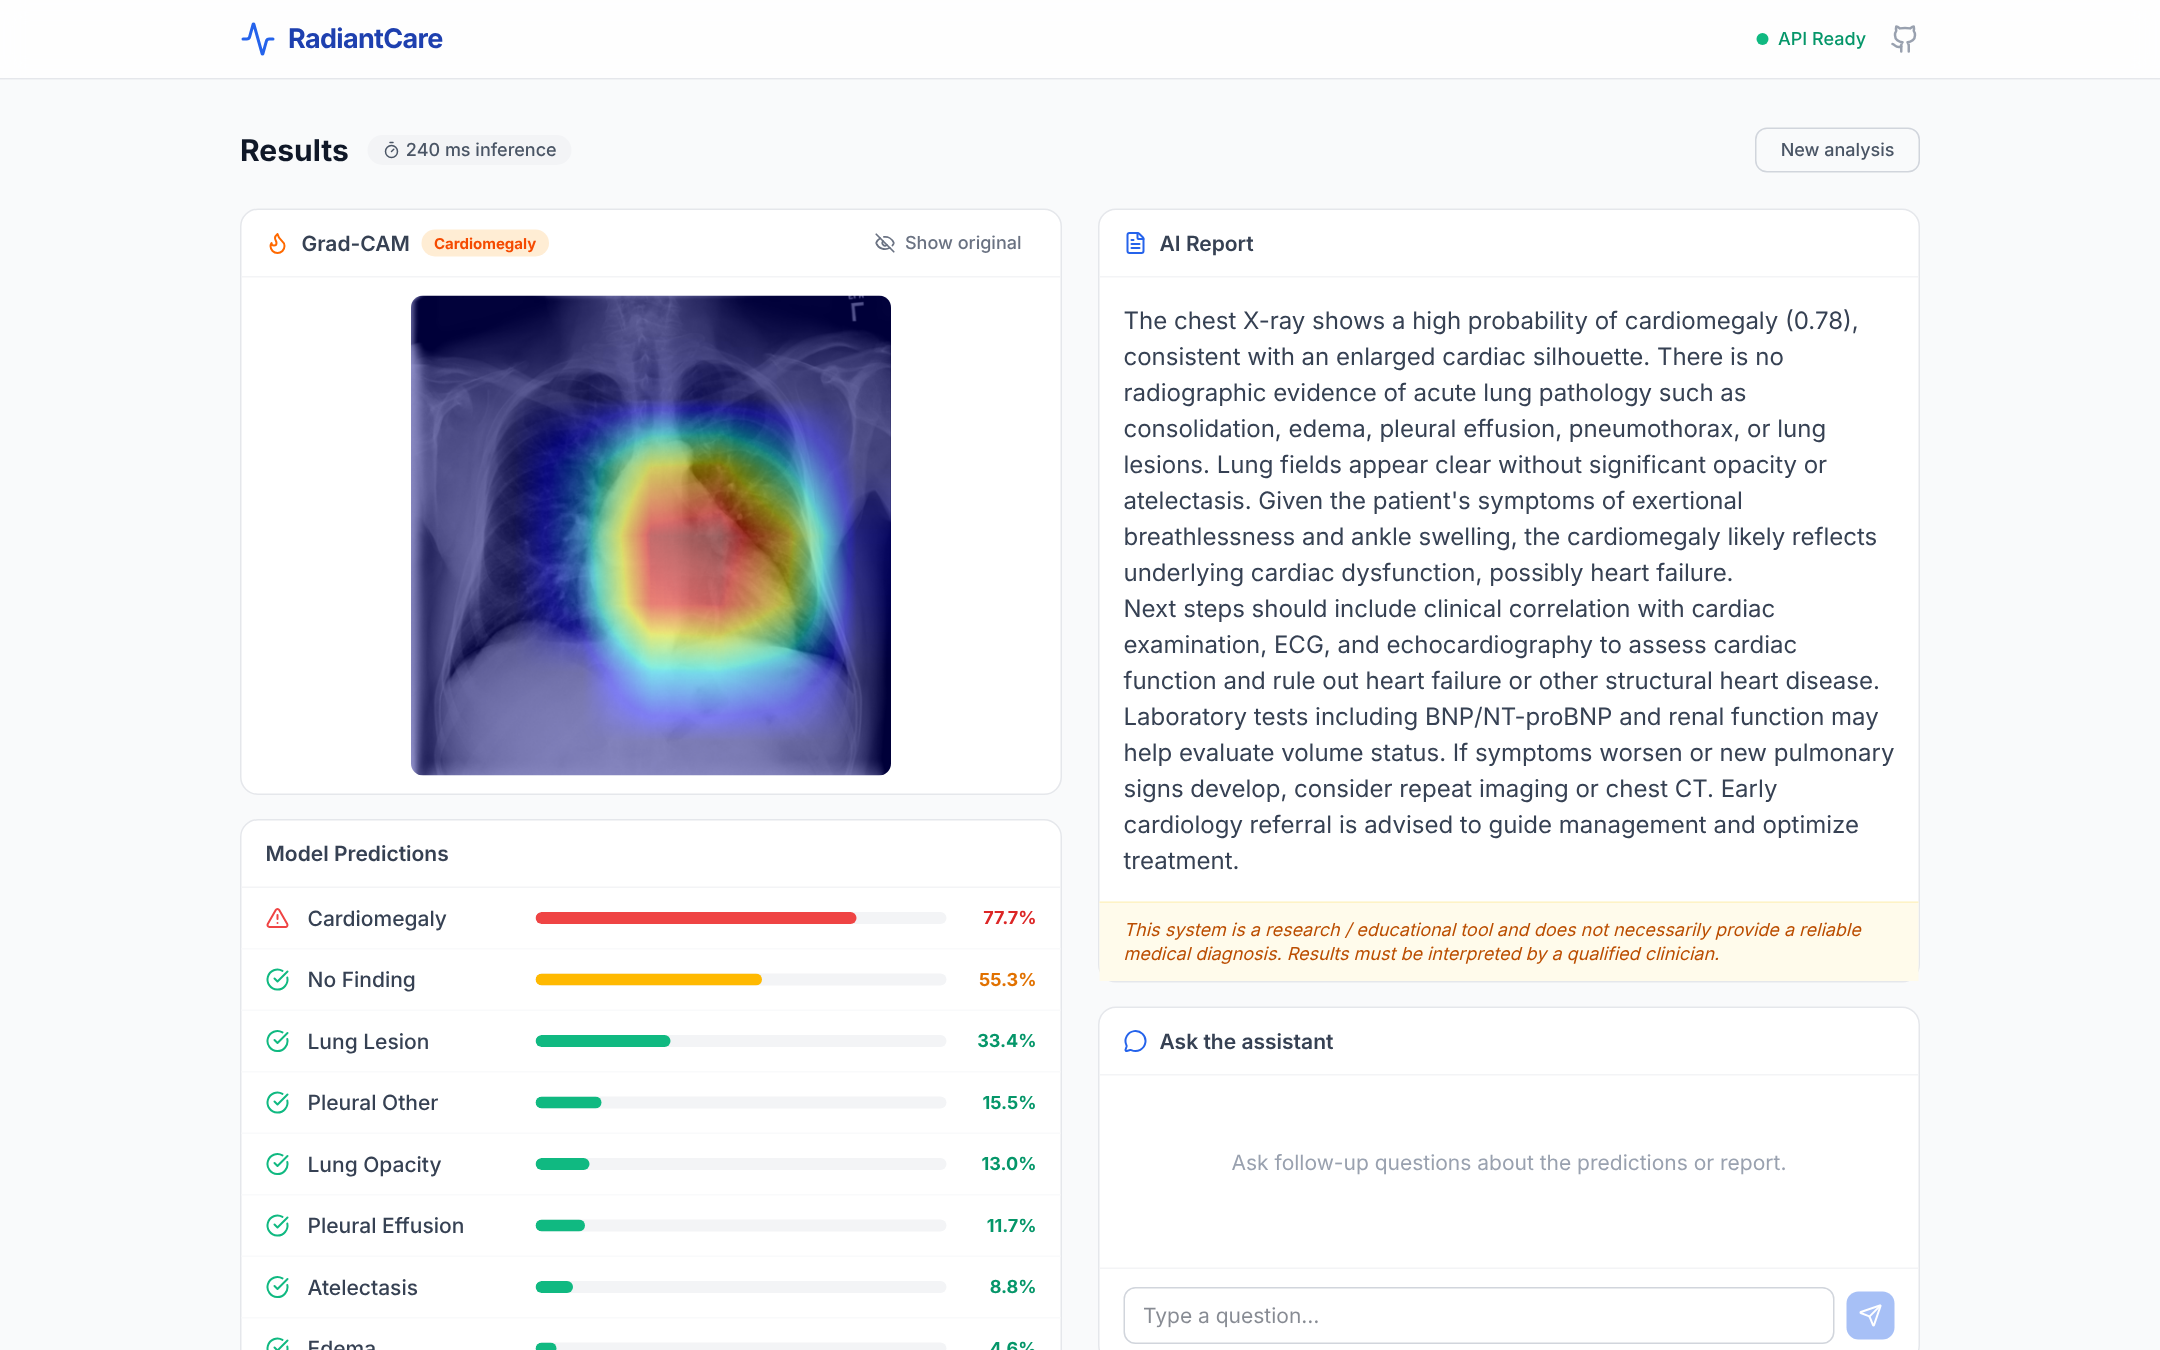
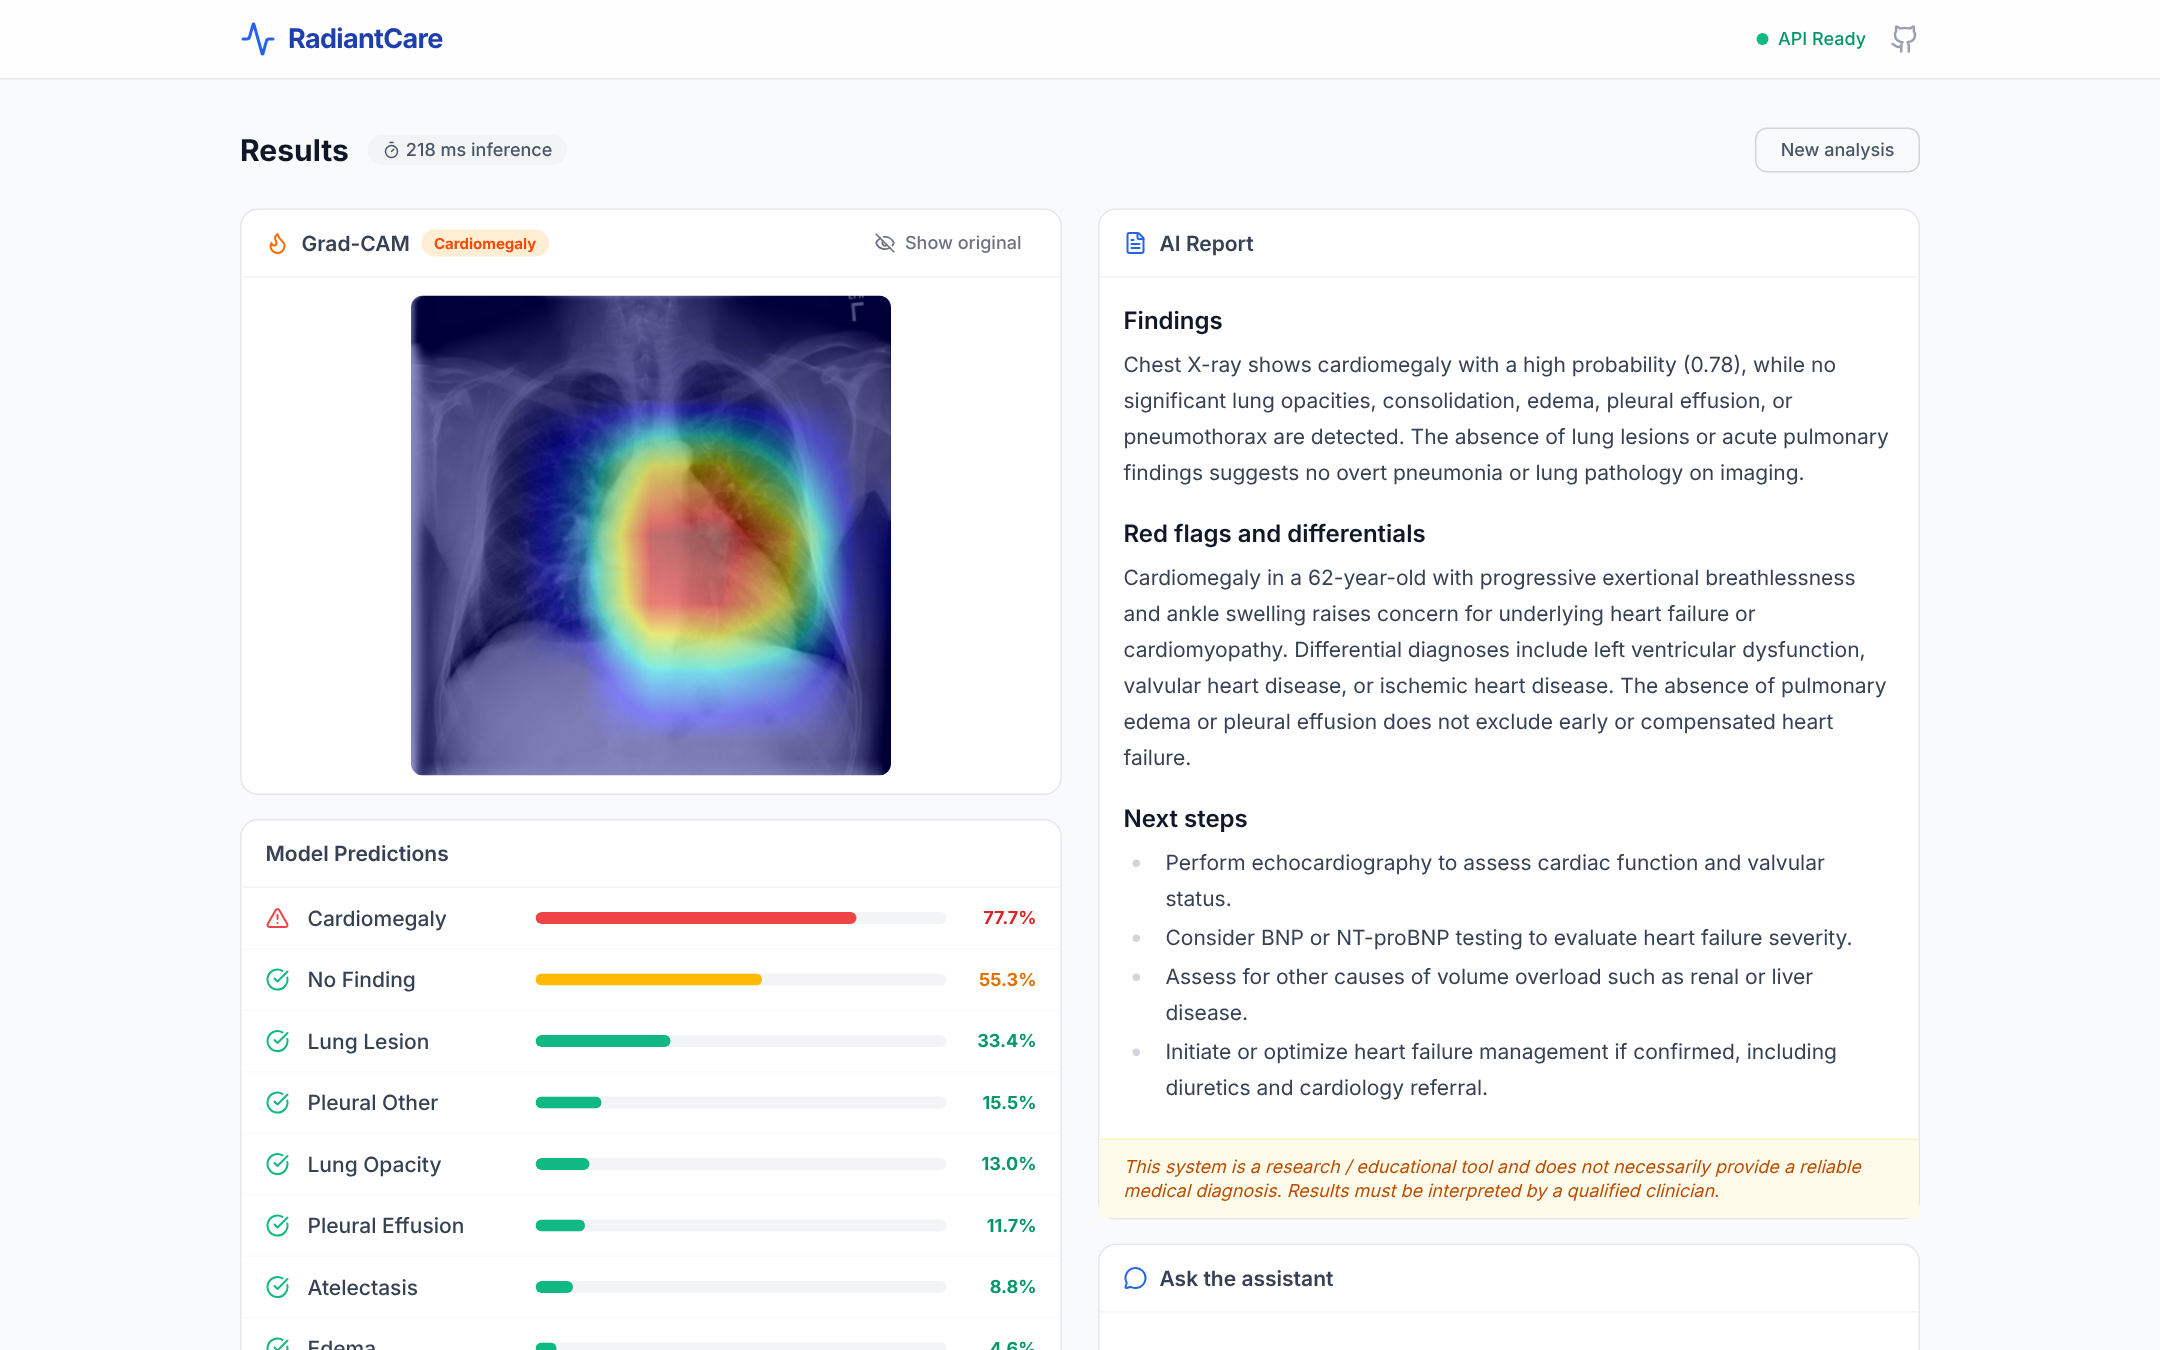
Format the AI report and chat answers properly
The report and chat answers were returned as Markdown, but the
Tailwind typography plugin was missing, so the prose classes did
nothing and headings and lists showed as plain text.

- Add @tailwindcss/typography and load it in index.css
- Ask for a report in three short ### sections (findings, red flags
  and differentials, next steps)
- Ask the chat to answer first in one bold sentence, then add detail
- Tidy heading sizes and spacing in the report and chat bubbles
- Retake the screenshots and update their captions

Claude-Session: https://claude.ai/code/session_01DbUQQDwXdoP77nQRJUWZuh

diff --git a/frontend/src/components/ChatPanel.tsx b/frontend/src/components/ChatPanel.tsx
@@ -86,7 +86,7 @@ export default function ChatPanel({
               }`}
             >
               {m.role === "assistant" ? (
-                <div className="prose prose-sm max-w-none prose-headings:mt-3 prose-headings:mb-1.5 prose-headings:font-semibold prose-p:my-2 first:prose-p:mt-0 last:prose-p:mb-0 prose-ul:my-2 prose-li:my-0.5 prose-ul:list-disc prose-ol:list-decimal">
+                <div className="prose prose-sm max-w-none prose-headings:mt-3 prose-headings:mb-1.5 prose-headings:font-semibold prose-h3:text-sm [&>:first-child]:mt-0 [&>:last-child]:mb-0 prose-p:my-2 first:prose-p:mt-0 last:prose-p:mb-0 prose-ul:my-2 prose-li:my-0.5 prose-ul:list-disc prose-ol:list-decimal">
                   <ReactMarkdown>{m.content}</ReactMarkdown>
                 </div>
               ) : (

diff --git a/frontend/src/components/ReportDisplay.tsx b/frontend/src/components/ReportDisplay.tsx
@@ -14,7 +14,7 @@ export default function ReportDisplay({ report, disclaimer }: Props) {
         <h3 className="text-sm font-semibold text-gray-700">AI Report</h3>
       </div>
 
-      <div className="prose prose-sm max-w-none px-4 py-4 text-gray-700">
+      <div className="prose prose-sm max-w-none px-4 py-4 text-gray-700 prose-headings:mt-4 prose-headings:mb-1.5 prose-headings:font-semibold prose-headings:text-gray-900 prose-h3:text-base [&>:first-child]:mt-0 prose-p:my-1.5 prose-ul:my-1.5 prose-li:my-0.5">
         <ReactMarkdown>{report}</ReactMarkdown>
       </div>
 

diff --git a/frontend/src/index.css b/frontend/src/index.css
@@ -1,4 +1,5 @@
 @import "tailwindcss";
+@plugin "@tailwindcss/typography";
 
 @theme {
   --color-primary-50: #eff6ff;

diff --git a/api/main.py b/api/main.py
@@ -527,7 +527,11 @@ def _generate_report_text(
         "- Summarize the main findings clearly.\n"
         "- Highlight potential red flags and differentials.\n"
         "- Suggest concrete next steps (further imaging, workup, treatment options) "
-        "as appropriate. Be concise (5-8 sentences) and use clear clinical language."
+        "as appropriate.\n"
+        "Format the report in Markdown with three short sections, each starting with a "
+        "### heading: Findings, Red flags and differentials, Next steps. Use one to three "
+        "sentences or short - bullet points per section, about 120 words in total, in "
+        "clear clinical language."
     )
 
     # User message: the actual data (predictions, context, RAG excerpts)
@@ -721,8 +725,11 @@ def chat_with_assistant(payload: ChatRequest) -> ChatResponse:
         "outputs. They use you as a partner. Provide clear differential diagnoses, "
         "next steps, and treatment or workup recommendations as appropriate. "
         "Use direct clinical language; the clinician will make the final decision. "
-        "Format your reply in Markdown: use ## for section headings, - for bullet "
-        "lists, and separate paragraphs with a blank line so the answer is easy to read."
+        "Answer the question first, in one or two sentences with the key point in "
+        "**bold**, then add detail only if it helps. Format your reply in Markdown: "
+        "use ### for short section headings, - for bullet lists, and separate "
+        "paragraphs with a blank line. Keep it under about 150 words unless the "
+        "clinician asks for more."
     )
     messages: list[dict[str, str]] = [{"role": "system", "content": system_prompt}]
 

diff --git a/README.md b/README.md
@@ -20,7 +20,7 @@ This project is **open-source** and the backend code (`main.py`, `rag.py`, `grad
 
 [![RadiantCare demo: upload a chest X-ray, read the heatmap, scores and report, ask a follow-up question](docs/demo/RadiantCare-demo-poster.jpg)](docs/demo/RadiantCare-demo.mp4)
 
-*A one-minute silent walkthrough recorded from the running app: the trained model on CPU, Grad-CAM, and real LLM calls for the report and the chat. Upload a chest X-ray with some clinical context, read the heatmap, the 14 scores and the report, then ask how urgent follow-up is. The wait while the analysis runs (about 6 seconds) is cut. Click the image to open the video ([MP4, 6 MB](docs/demo/RadiantCare-demo.mp4)).*
+*A one-minute silent walkthrough recorded from the running app: the trained model on CPU, Grad-CAM, and real LLM calls for the report and the chat. Upload a chest X-ray with some clinical context, read the heatmap, the 14 scores and the report, then ask how urgent follow-up is. The few-second wait while the analysis runs is cut. Click the image to open the video ([MP4, 6 MB](docs/demo/RadiantCare-demo.mp4)).*
 
 ---
 
@@ -34,7 +34,7 @@ The user uploads a chest X-ray image, displayed with its filename and size. They
 
 **2. Full analysis result**
 
-After selecting "Full report," the result page displays the X-ray overlaid with a Grad-CAM heatmap highlighting the region most relevant to the top prediction (here cardiomegaly). On the right, an AI-generated report summarizes findings with probabilities, takes the clinical context into account, suggests next steps, and includes a medical disclaimer. Below the heatmap, all model predictions are listed with color-coded confidence bars. A chat panel is available for follow-up questions. The model's inference time is shown in the header (240 ms here, on CPU).
+After selecting "Full report," the result page displays the X-ray overlaid with a Grad-CAM heatmap highlighting the region most relevant to the top prediction (here cardiomegaly). On the right, an AI-generated report, in three short sections (findings, red flags and differentials, next steps), summarizes findings with probabilities, takes the clinical context into account, suggests next steps, and includes a medical disclaimer. Below the heatmap, all model predictions are listed with color-coded confidence bars. A chat panel is available for follow-up questions. The model's inference time is shown in the header (218 ms here, on CPU).
 
 [![Full analysis result](./docs/images/2.png)](https://raw.githubusercontent.com/SulaimanFY/RadiantCare/main/docs/images/2.png)
 
@@ -46,13 +46,13 @@ A closer look at the complete list of predictions returned by the model. Each co
 
 **4. Interactive Chat Assistant**
 
-Interactive chat assistant that answers follow-up questions about the case, providing structured clinical insights based on model predictions, the clinical context and retrieved medical knowledge. Here it is asked how urgent follow-up is and which test should come first.
+Interactive chat assistant that answers follow-up questions about the case, providing structured clinical insights based on model predictions, the clinical context and retrieved medical knowledge. Here it is asked how urgent follow-up is and which test should come first: it answers in one bold sentence first, then gives its reasoning as a short list.
 
 [![Chat and urgency assessment](./docs/images/4.png)](https://raw.githubusercontent.com/SulaimanFY/RadiantCare/main/docs/images/4.png)
 
 **5. Predictions-only mode result**
 
-When the user selects "Predictions only," no LLM call is made, so the analysis is much faster: under a second end to end in this run, against about 5 to 6 seconds for the full report. The model's own inference time is about the same in both modes (216 ms here). The result page shows the Grad-CAM heatmap and the list of predictions without generating a written report, making it well suited for quick screening when a detailed narrative is not needed.
+When the user selects "Predictions only," no LLM call is made, so the analysis is much faster: under a second end to end in this run, against about 4 to 6 seconds for the full report. The model's own inference time is the same in both modes (218 ms here). The result page shows the Grad-CAM heatmap and the list of predictions without generating a written report, making it well suited for quick screening when a detailed narrative is not needed.
 
 [![Predictions-only mode](./docs/images/5.png)](https://raw.githubusercontent.com/SulaimanFY/RadiantCare/main/docs/images/5.png)
 
